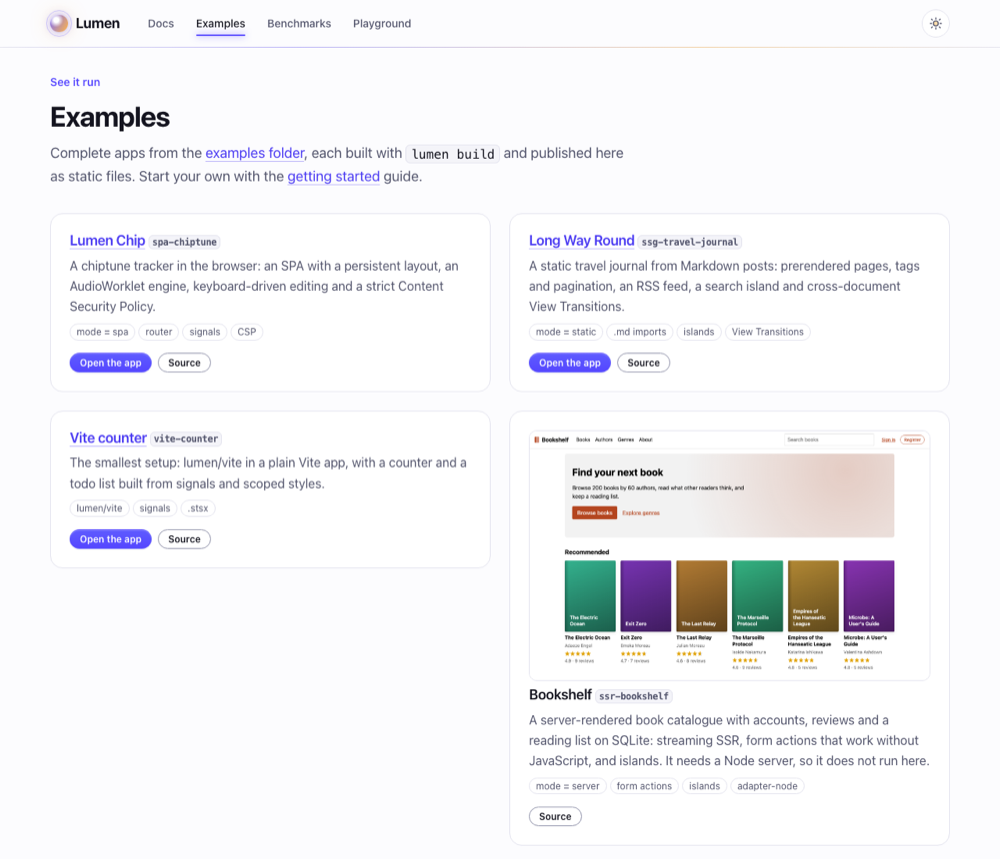
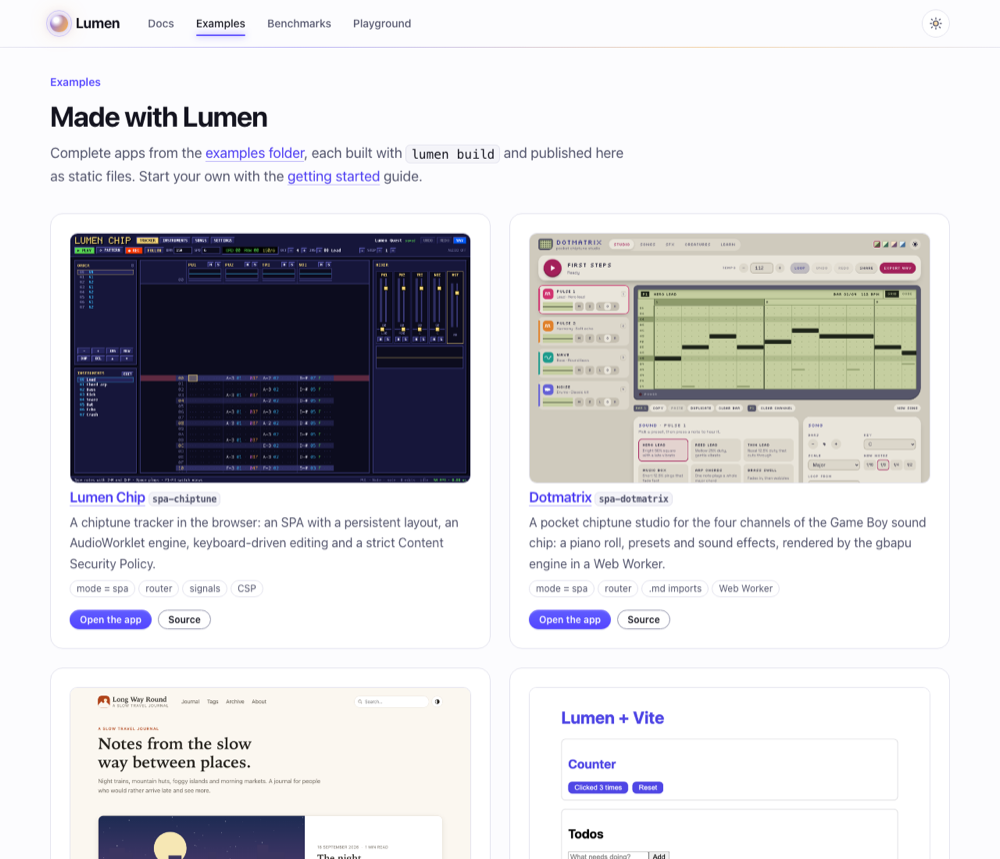
feat(site): spa-dotmatrix on Pages, 'Made with Lumen' examples showcase with screenshots; playground assets write the generated tsconfig first (fresh checkouts, TASK-163)

diff --git a/scripts/site.ts b/scripts/site.ts
@@ -1,14 +1,13 @@
 // Builds the Lumen website into one static directory, as GitHub Pages serves it
 // (.github/workflows/pages.yml runs the same command):
 //
-//   pnpm build:site [--base /lumen/] [--out dist/site] [--skip-compiler] [--with-dotmatrix]
+//   pnpm build:site [--base /lumen/] [--out dist/site] [--skip-compiler]
 //   pnpm preview:site [--base /lumen/] [--out dist/site] [--port 4173]
 //
 // - apps/web (/, /docs, /examples, /benchmarks) lands at the root of the output, apps/playground
 //   under playground/.
-// - The examples that need no server are built below examples/<name>/ (TASK-163). spa-dotmatrix is
-//   left out unless --with-dotmatrix: it bundles the gbapu engine, whose redistribution rights
-//   are not confirmed yet. ssr-bookshelf needs a server: the website links its code instead.
+// - The examples that need no server are built below examples/<name>/ (TASK-163). ssr-bookshelf
+//   needs a server: the website shows a screenshot and links its code instead.
 // - Benchmarks: the fullstack results viewer with the committed results at
 //   benchmarks/fullstack/, and the Lumen js-framework-benchmark app at
 //   benchmarks/js-framework-benchmark/app/ (the results page itself is apps/web's).
@@ -51,7 +50,6 @@ const { positionals, values } = parseArgs({
     out: { type: "string", default: "dist/site" },
     port: { type: "string", default: "4173" },
     "skip-compiler": { type: "boolean", default: false },
-    "with-dotmatrix": { type: "boolean", default: false },
   },
 });
 
@@ -72,8 +70,6 @@ interface Example {
   name: string;
   /** The built static files, relative to the example. */
   dist: string;
-  /** Only with --with-dotmatrix. */
-  optIn?: boolean;
 }
 
 /** The examples published below examples/<name>/: static output, no server. */
@@ -81,7 +77,7 @@ const EXAMPLES: Example[] = [
   { name: "spa-chiptune", dist: "dist/client" },
   { name: "ssg-travel-journal", dist: "dist/client" },
   { name: "vite-counter", dist: "dist" },
-  { name: "spa-dotmatrix", dist: "dist/client", optIn: true },
+  { name: "spa-dotmatrix", dist: "dist/client" },
 ];
 
 /** Copies a build without the precompressed twins and host config Pages does not use. */
@@ -97,10 +93,12 @@ function build(): void {
   for (const app of ["@lumen/web", "@lumen/playground"]) {
     pnpm(["--filter", app, "build"], { LUMEN_BASE: base });
   }
-  const examples = EXAMPLES.filter((example) => !example.optIn || values["with-dotmatrix"]);
-  for (const { name } of examples) {
+  for (const { name } of EXAMPLES) {
+    // LUMEN_PAGES tells an example it is built for a static host without custom headers
+    // (spa-chiptune's cross-origin isolation service worker, TASK-172).
     pnpm(["--filter", `@lumen-examples/${name}`, "build"], {
       LUMEN_BASE: `${base}examples/${name}/`,
+      LUMEN_PAGES: "1",
     });
   }
   pnpm(["--filter", "@lumen/bench-jsfb", "build"]);
@@ -108,7 +106,7 @@ function build(): void {
   rmSync(out, { recursive: true, force: true });
   copyBuild(join(repo, "apps/web/dist/client"), out);
   copyBuild(join(repo, "apps/playground/dist/client"), join(out, "playground"));
-  for (const { name, dist } of examples) {
+  for (const { name, dist } of EXAMPLES) {
     copyBuild(join(repo, "examples", name, dist), join(out, "examples", name));
   }
   const fullstack = join(repo, "benchmarks/fullstack");
@@ -124,7 +122,7 @@ function build(): void {
   copyBuild(join(jsfb, "demo"), app);
   cpSync(join(jsfb, "dist/main.js"), join(app, "main.js"));
 
-  const scopes = examples.flatMap(({ name }) =>
+  const scopes = EXAMPLES.flatMap(({ name }) =>
     existsSync(join(out, "examples", name, "404.html")) ? [`examples/${name}/`] : [],
   );
   writeFileSync(

diff --git a/apps/web/src/content/showcase.ts b/apps/web/src/content/showcase.ts
@@ -17,7 +17,7 @@ export interface Showcase {
   demo?: string;
   /** Its source in the repository. */
   source: string;
-  /** A screenshot (public/), for apps that cannot run here. */
+  /** A screenshot (public/examples/<name>.png). */
   image?: string;
 }
 
@@ -31,6 +31,17 @@ export function examples(): Showcase[] {
       tags: ["mode = spa", "router", "signals", "CSP"],
       demo: link("/examples/spa-chiptune/"),
       source: `${REPOSITORY}/tree/main/examples/spa-chiptune`,
+      image: link("/examples/spa-chiptune.png"),
+    },
+    {
+      name: "spa-dotmatrix",
+      title: "Dotmatrix",
+      description:
+        "A pocket chiptune studio for the four channels of the Game Boy sound chip: a piano roll, presets and sound effects, rendered by the gbapu engine in a Web Worker.",
+      tags: ["mode = spa", "router", ".md imports", "Web Worker"],
+      demo: link("/examples/spa-dotmatrix/"),
+      source: `${REPOSITORY}/tree/main/examples/spa-dotmatrix`,
+      image: link("/examples/spa-dotmatrix.png"),
     },
     {
       name: "ssg-travel-journal",
@@ -40,6 +51,7 @@ export function examples(): Showcase[] {
       tags: ["mode = static", ".md imports", "islands", "View Transitions"],
       demo: link("/examples/ssg-travel-journal/"),
       source: `${REPOSITORY}/tree/main/examples/ssg-travel-journal`,
+      image: link("/examples/ssg-travel-journal.png"),
     },
     {
       name: "vite-counter",
@@ -49,6 +61,7 @@ export function examples(): Showcase[] {
       tags: ["lumen/vite", "signals", ".stsx"],
       demo: link("/examples/vite-counter/"),
       source: `${REPOSITORY}/tree/main/examples/vite-counter`,
+      image: link("/examples/vite-counter.png"),
     },
     {
       name: "ssr-bookshelf",

diff --git a/apps/playground/scripts/assets.ts b/apps/playground/scripts/assets.ts
@@ -13,6 +13,7 @@ import { execFileSync } from "node:child_process";
 import { readFileSync } from "node:fs";
 import { join } from "node:path";
 import { fileURLToPath } from "node:url";
+import { writeLumenTsconfig } from "lumen/tooling";
 import { build } from "vite";
 
 const app = fileURLToPath(new URL("..", import.meta.url));
@@ -56,6 +57,10 @@ run(
   ],
   repo,
 );
+
+// The bundle is transformed with the app's tsconfig, which extends the generated one: write it
+// first, since a fresh checkout (CI) has no .lumen/ yet.
+await writeLumenTsconfig(app);
 
 await build({
   configFile: false,

diff --git a/examples/spa-dotmatrix/vite.config.ts b/examples/spa-dotmatrix/vite.config.ts
@@ -6,6 +6,8 @@ import { defineConfig } from "vite";
 // `lumen build` emits static shells. Audio renders offline in a module Web Worker (the vendored
 // gbapu engine), so no cross-origin isolation is needed.
 export default defineConfig({
+  // Served below a path when LUMEN_BASE is set (the Lumen website: /lumen/examples/spa-dotmatrix/).
+  base: process.env["LUMEN_BASE"] ?? "/",
   // `md: true` lets the Learn section render docs/composing.md as a page.
   plugins: [lumen({ mode: "spa", ssr: false, md: true })],
   worker: { format: "es" },

diff --git a/backlog/tasks/task-163 - Publish-static-examples-and-benchmark-UIs-on-GitHub-Pages.md b/backlog/tasks/task-163 - Publish-static-examples-and-benchmark-UIs-on-GitHub-Pages.md
@@ -5,7 +5,7 @@ status: Done
 assignee:
   - Beacon
 created_date: '2026-10-09 11:53'
-updated_date: '2026-10-09 12:06'
+updated_date: '2026-10-09 12:18'
 labels:
   - site
   - ci
@@ -32,6 +32,8 @@ User 2026-10-09: publish, together with the website, the example apps that need 
 
 <!-- SECTION:NOTES:BEGIN -->
 Beacon (2026-10-09): scripts/site.ts builds, besides apps/web and the playground, examples spa-chiptune, ssg-travel-journal and vite-counter with LUMEN_BASE=<base>examples/<name>/ (each vite.config reads LUMEN_BASE; the journal's public assets and feed links go through asset()/href()), copies them to examples/<name>/ (without .br/.gz/_headers), the fullstack viewer + results/*.json to benchmarks/fullstack/, and the jsfb app (dist/main.js + benchmarks/js-framework-benchmark/demo/ page with a small Bootstrap stand-in) to benchmarks/js-framework-benchmark/app/. Deep links: GitHub Pages serves the root 404.html for any missing path, so site.ts injects a script there that, below an example with its own 404.html, swallows the rest of the page (<plaintext>, so the site's scripts never run) and document.writes the example's 404.html (chiptune's SPA shell routes the URL; the journal shows its own 404). DOTMATRIX FLAG: spa-dotmatrix is excluded unless build:site --with-dotmatrix, pending the user's confirmation of gbapu redistribution rights. ssr-bookshelf: Examples page shows a screenshot (apps/web/public/examples/ssr-bookshelf.png, from a local production run) and links its source. Website: /examples and /benchmarks pages (components/Showcase.stsx, content/showcase.ts), /benchmarks/js-framework-benchmark renders RESULTS.md at build time; header nav, footer column 'See it run', landing 'Example apps' section and a docs sidebar group. pages.yml: header comment only (it already runs build:site; Photon's TASK-161 workflows untouched). Validation: build:site --base /lumen/ OK; preview:site + link crawl 157 URLs, 0 broken; Playwright visit of every page incl. chiptune deep link reload and journal 404: no page errors; browser pane checks; journal e2e 17/17; lumen check clean (web, journal). Screenshots: backlog/assets/task-163-{landing,examples,benchmarks,jsfb-results,jsfb-app,fullstack,chiptune-deeplink,journal,counter}.png. Repo links point at github.com/itsjavi/lumen (private for now).
+
+Beacon (2026-10-09, user update via Lux): spa-dotmatrix is now published (gbapu is the user's own library, planned MIT): the --with-dotmatrix flag is gone. /examples is a 'Made with Lumen' showcase: a screenshot card per example (chiptune, dotmatrix, travel journal, counter; bookshelf as screenshot + source since it needs a server), linked from the nav, the landing section and the docs sidebar. Example builds get LUMEN_PAGES=1 (for TASK-172's service worker; notes there). Pages run 37927908013 failed on a pre-existing fresh-checkout bug (also the 2 previous Pages runs): apps/playground/scripts/assets.ts bundled the preview runtime before .lumen/tsconfig.generated.json existed; it now writes it first (verified with the generated .lumen dirs removed). Crawl after rebuild: 171 URLs, 0 broken. Note: the spa-dotmatrix README and the root README license line still say gbapu is not openly licensed (TASK-172 AC#3 covers the dotmatrix README).
 <!-- SECTION:NOTES:END -->
 
 ## Final Summary

diff --git a/README.md b/README.md
@@ -4,7 +4,7 @@ A TypeScript-first web framework: `.stsx` components, signals, islands and scope
 
 ## Website
 
-The website is assembled into one static site: `apps/web` (the landing page at `/`, the docs at `/docs`, and the `/examples` and `/benchmarks` pages), `apps/playground` (at `/playground`), the example apps that need no server (`examples/spa-chiptune`, `ssg-travel-journal` and `vite-counter`, at `/examples/<name>/`), the fullstack benchmark's results viewer with the committed results (`/benchmarks/fullstack/`) and the Lumen js-framework-benchmark app (`/benchmarks/js-framework-benchmark/app/`).
+The website is assembled into one static site: `apps/web` (the landing page at `/`, the docs at `/docs`, and the `/examples` and `/benchmarks` pages), `apps/playground` (at `/playground`), the example apps that need no server (`examples/spa-chiptune`, `spa-dotmatrix`, `ssg-travel-journal` and `vite-counter`, at `/examples/<name>/`), the fullstack benchmark's results viewer with the committed results (`/benchmarks/fullstack/`) and the Lumen js-framework-benchmark app (`/benchmarks/js-framework-benchmark/app/`).
 
 ```sh
 pnpm build:site                  # builds the compiler and both apps into dist/site
@@ -12,7 +12,7 @@ pnpm build:site --base /lumen/   # served below a path, e.g. a GitHub project pa
 pnpm preview:site --base /lumen/ # serves dist/site at http://localhost:4173/lumen/
 ```
 
-`--skip-compiler` reuses an existing native compiler build. `--with-dotmatrix` also publishes `examples/spa-dotmatrix`, left out until the redistribution rights of its gbapu engine are confirmed. GitHub Pages answers every missing path with the root `404.html`; below an example that has its own `404.html` (the SPA shell of spa-chiptune, the journal's 404 page), that page renders the example's instead, so deep links work. The playground also builds the WebAssembly compiler, which needs `rustup target add wasm32-unknown-unknown` and `cargo install wasm-bindgen-cli --version 0.2.129 --locked` (the version must match the workspace's `wasm-bindgen` pin).
+`--skip-compiler` reuses an existing native compiler build. GitHub Pages answers every missing path with the root `404.html`; below an example that has its own `404.html` (the SPA shell of spa-chiptune, the journal's 404 page), that page renders the example's instead, so deep links work. The playground also builds the WebAssembly compiler, which needs `rustup target add wasm32-unknown-unknown` and `cargo install wasm-bindgen-cli --version 0.2.129 --locked` (the version must match the workspace's `wasm-bindgen` pin).
 
 `.github/workflows/pages.yml` runs the same build on every push to `main` (or manually) and deploys `dist/site` to GitHub Pages, with the base taken from the Pages configuration. To enable it, set **Settings > Pages > Source** to **GitHub Actions** on the repository.
 

diff --git a/backlog/tasks/task-172 - spa-chiptune-on-GitHub-Pages-with-cross-origin-isolation.md b/backlog/tasks/task-172 - spa-chiptune-on-GitHub-Pages-with-cross-origin-isolation.md
@@ -1,10 +1,11 @@
 ---
 id: TASK-172
 title: spa-chiptune on GitHub Pages with cross-origin isolation
-status: To Do
+status: In Progress
 assignee:
   - Chime
 created_date: '2026-10-09 12:12'
+updated_date: '2026-10-09 12:15'
 labels:
   - samples
   - site
@@ -26,3 +27,9 @@ User 2026-10-09: make the chiptune work on GitHub Pages without throwing away it
 - [ ] #2 Under the Pages base path: deep links, the audio engine in SharedArrayBuffer mode (Settings shows it), and an e2e check against preview:site; README explains the trade-off (one reload on first visit)
 - [ ] #3 Also update spa-dotmatrix's README: gbapu is the user's own library, planned for MIT release
 <!-- AC:END -->
+
+## Implementation Notes
+
+<!-- SECTION:NOTES:BEGIN -->
+Beacon (TASK-163, 2026-10-09): how the Pages build runs the examples: scripts/site.ts builds each with LUMEN_BASE=<base>examples/<name>/ (vite.config base reads it) and LUMEN_PAGES=1, the flag to enable the service worker for the Pages build only; dist/client is copied to dist/site/examples/spa-chiptune/ without .br/.gz and _headers. Deep links: Pages serves the root 404.html for missing paths; site.ts injects a script there that, below examples/spa-chiptune/, swallows the site's page (<plaintext>) and document.writes the chiptune's own 404.html (the SPA shell), so the router renders the deep link with a 404 status. So the SW script should live in the chiptune's output root (scope examples/spa-chiptune/) and the registration in the shell works both from index.html and from the 404 fallback. Validate with pnpm build:site --base /lumen/ && pnpm preview:site --base /lumen/ (preview mimics Pages: directory index.html, root 404.html).
+<!-- SECTION:NOTES:END -->
